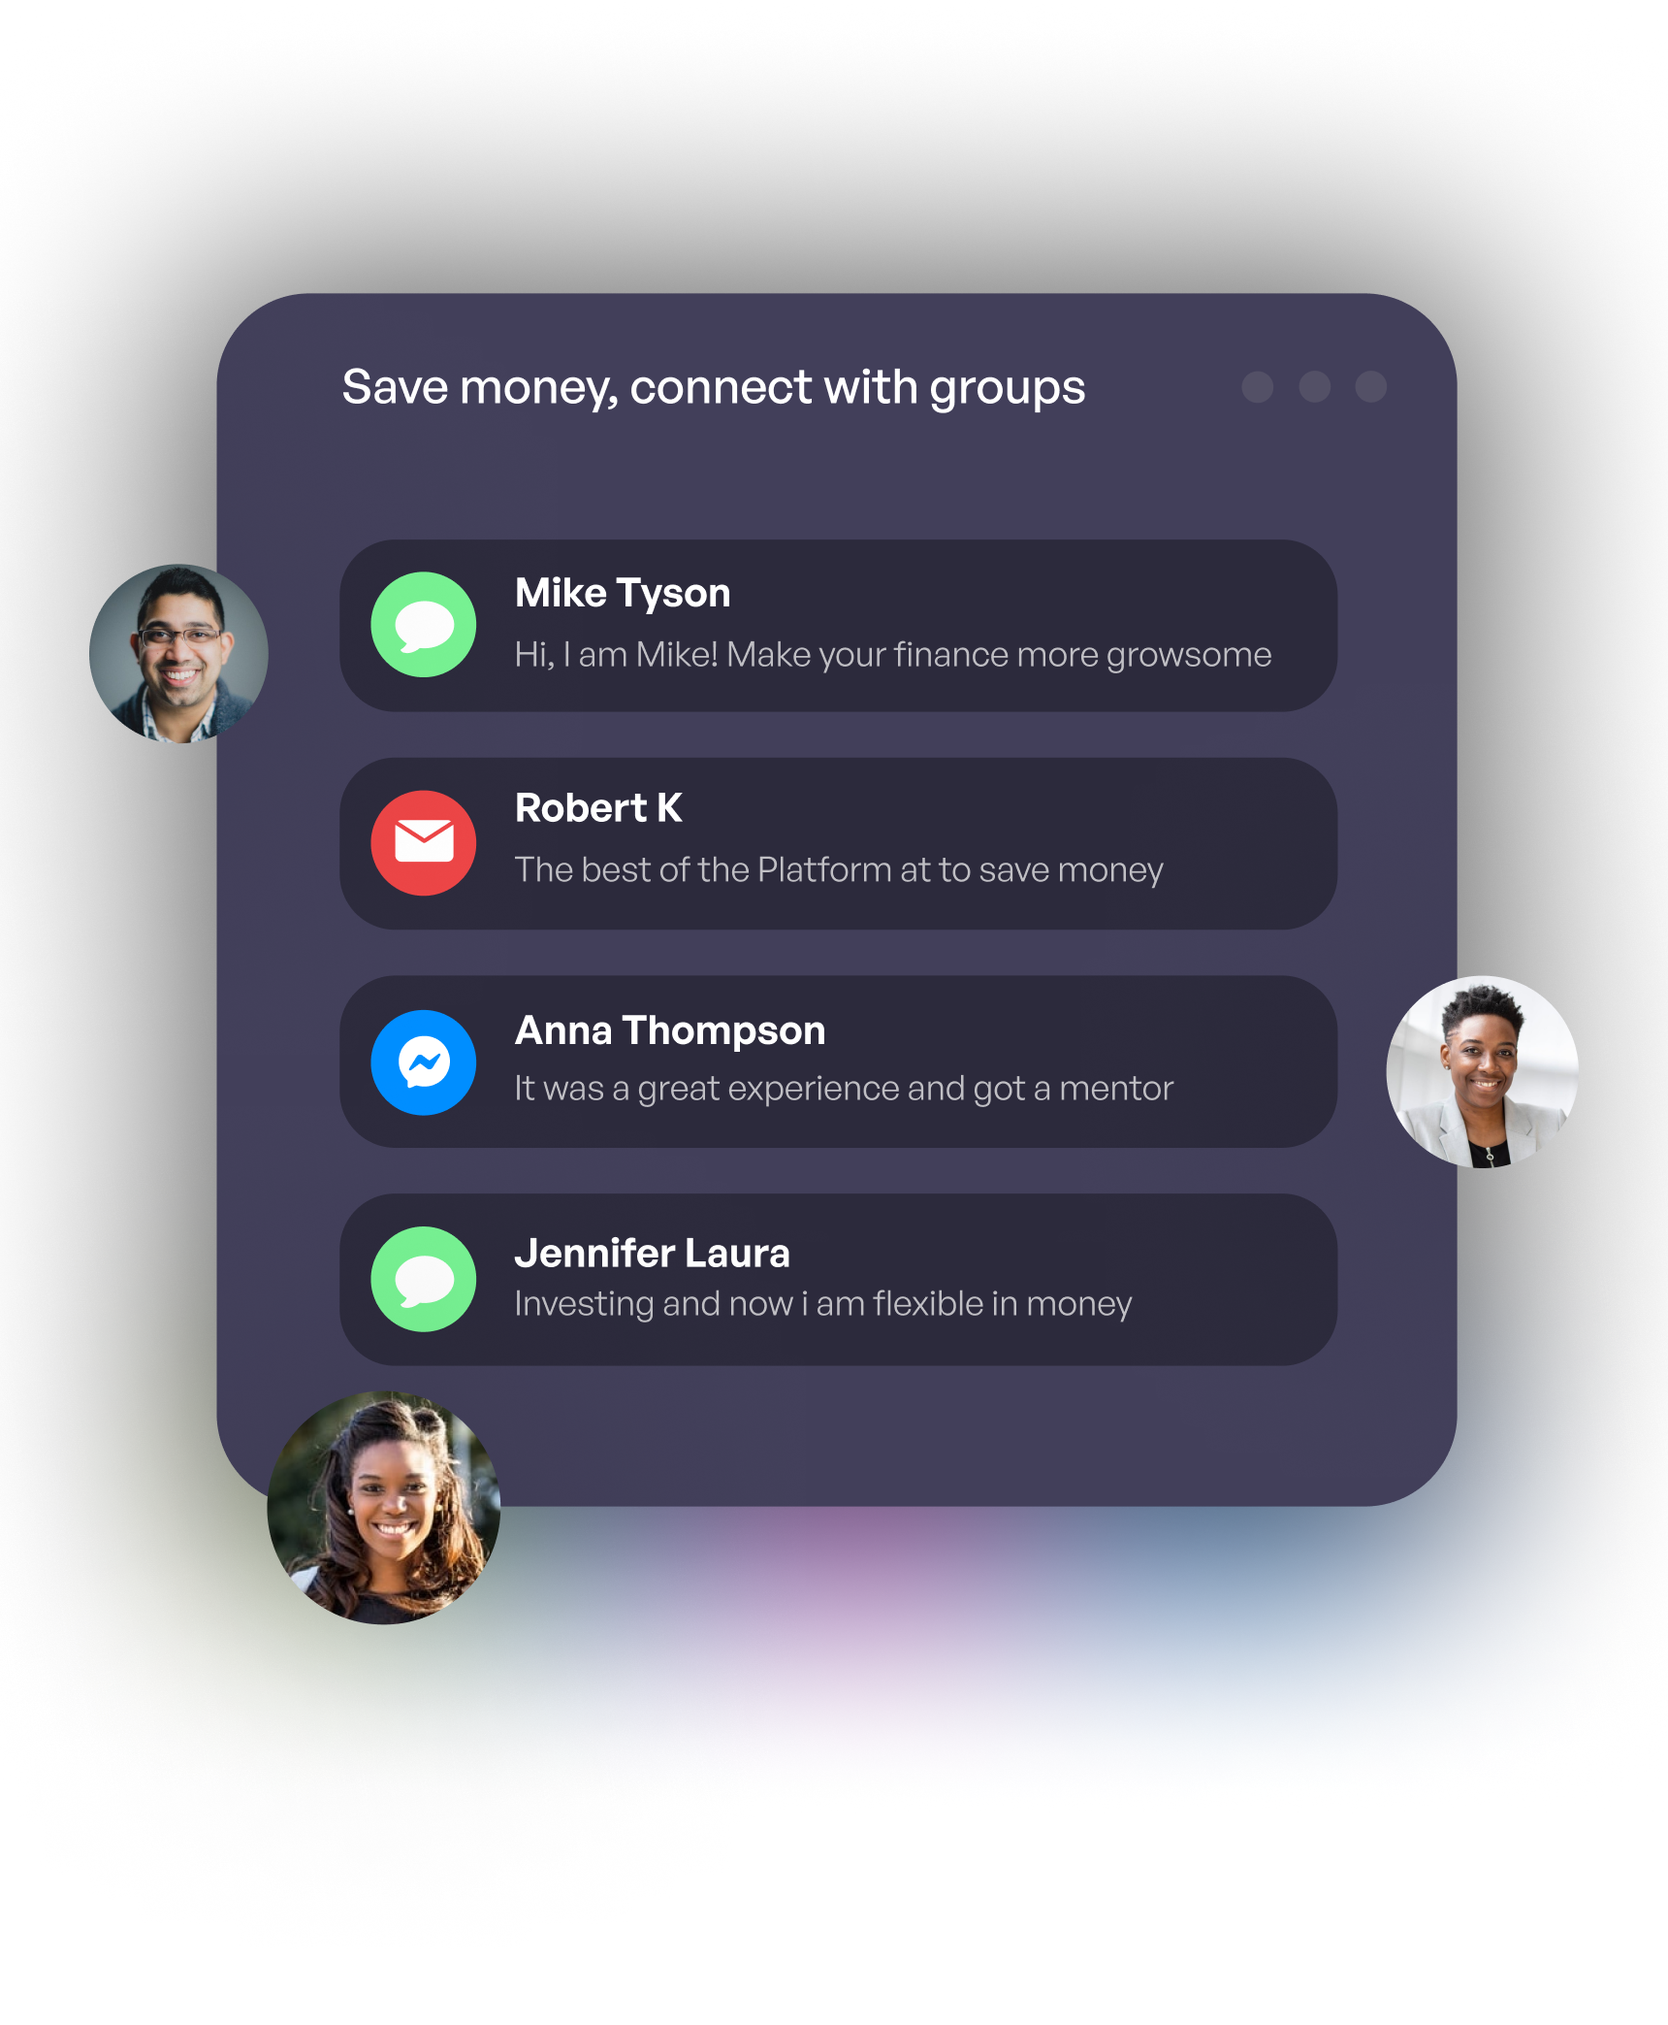
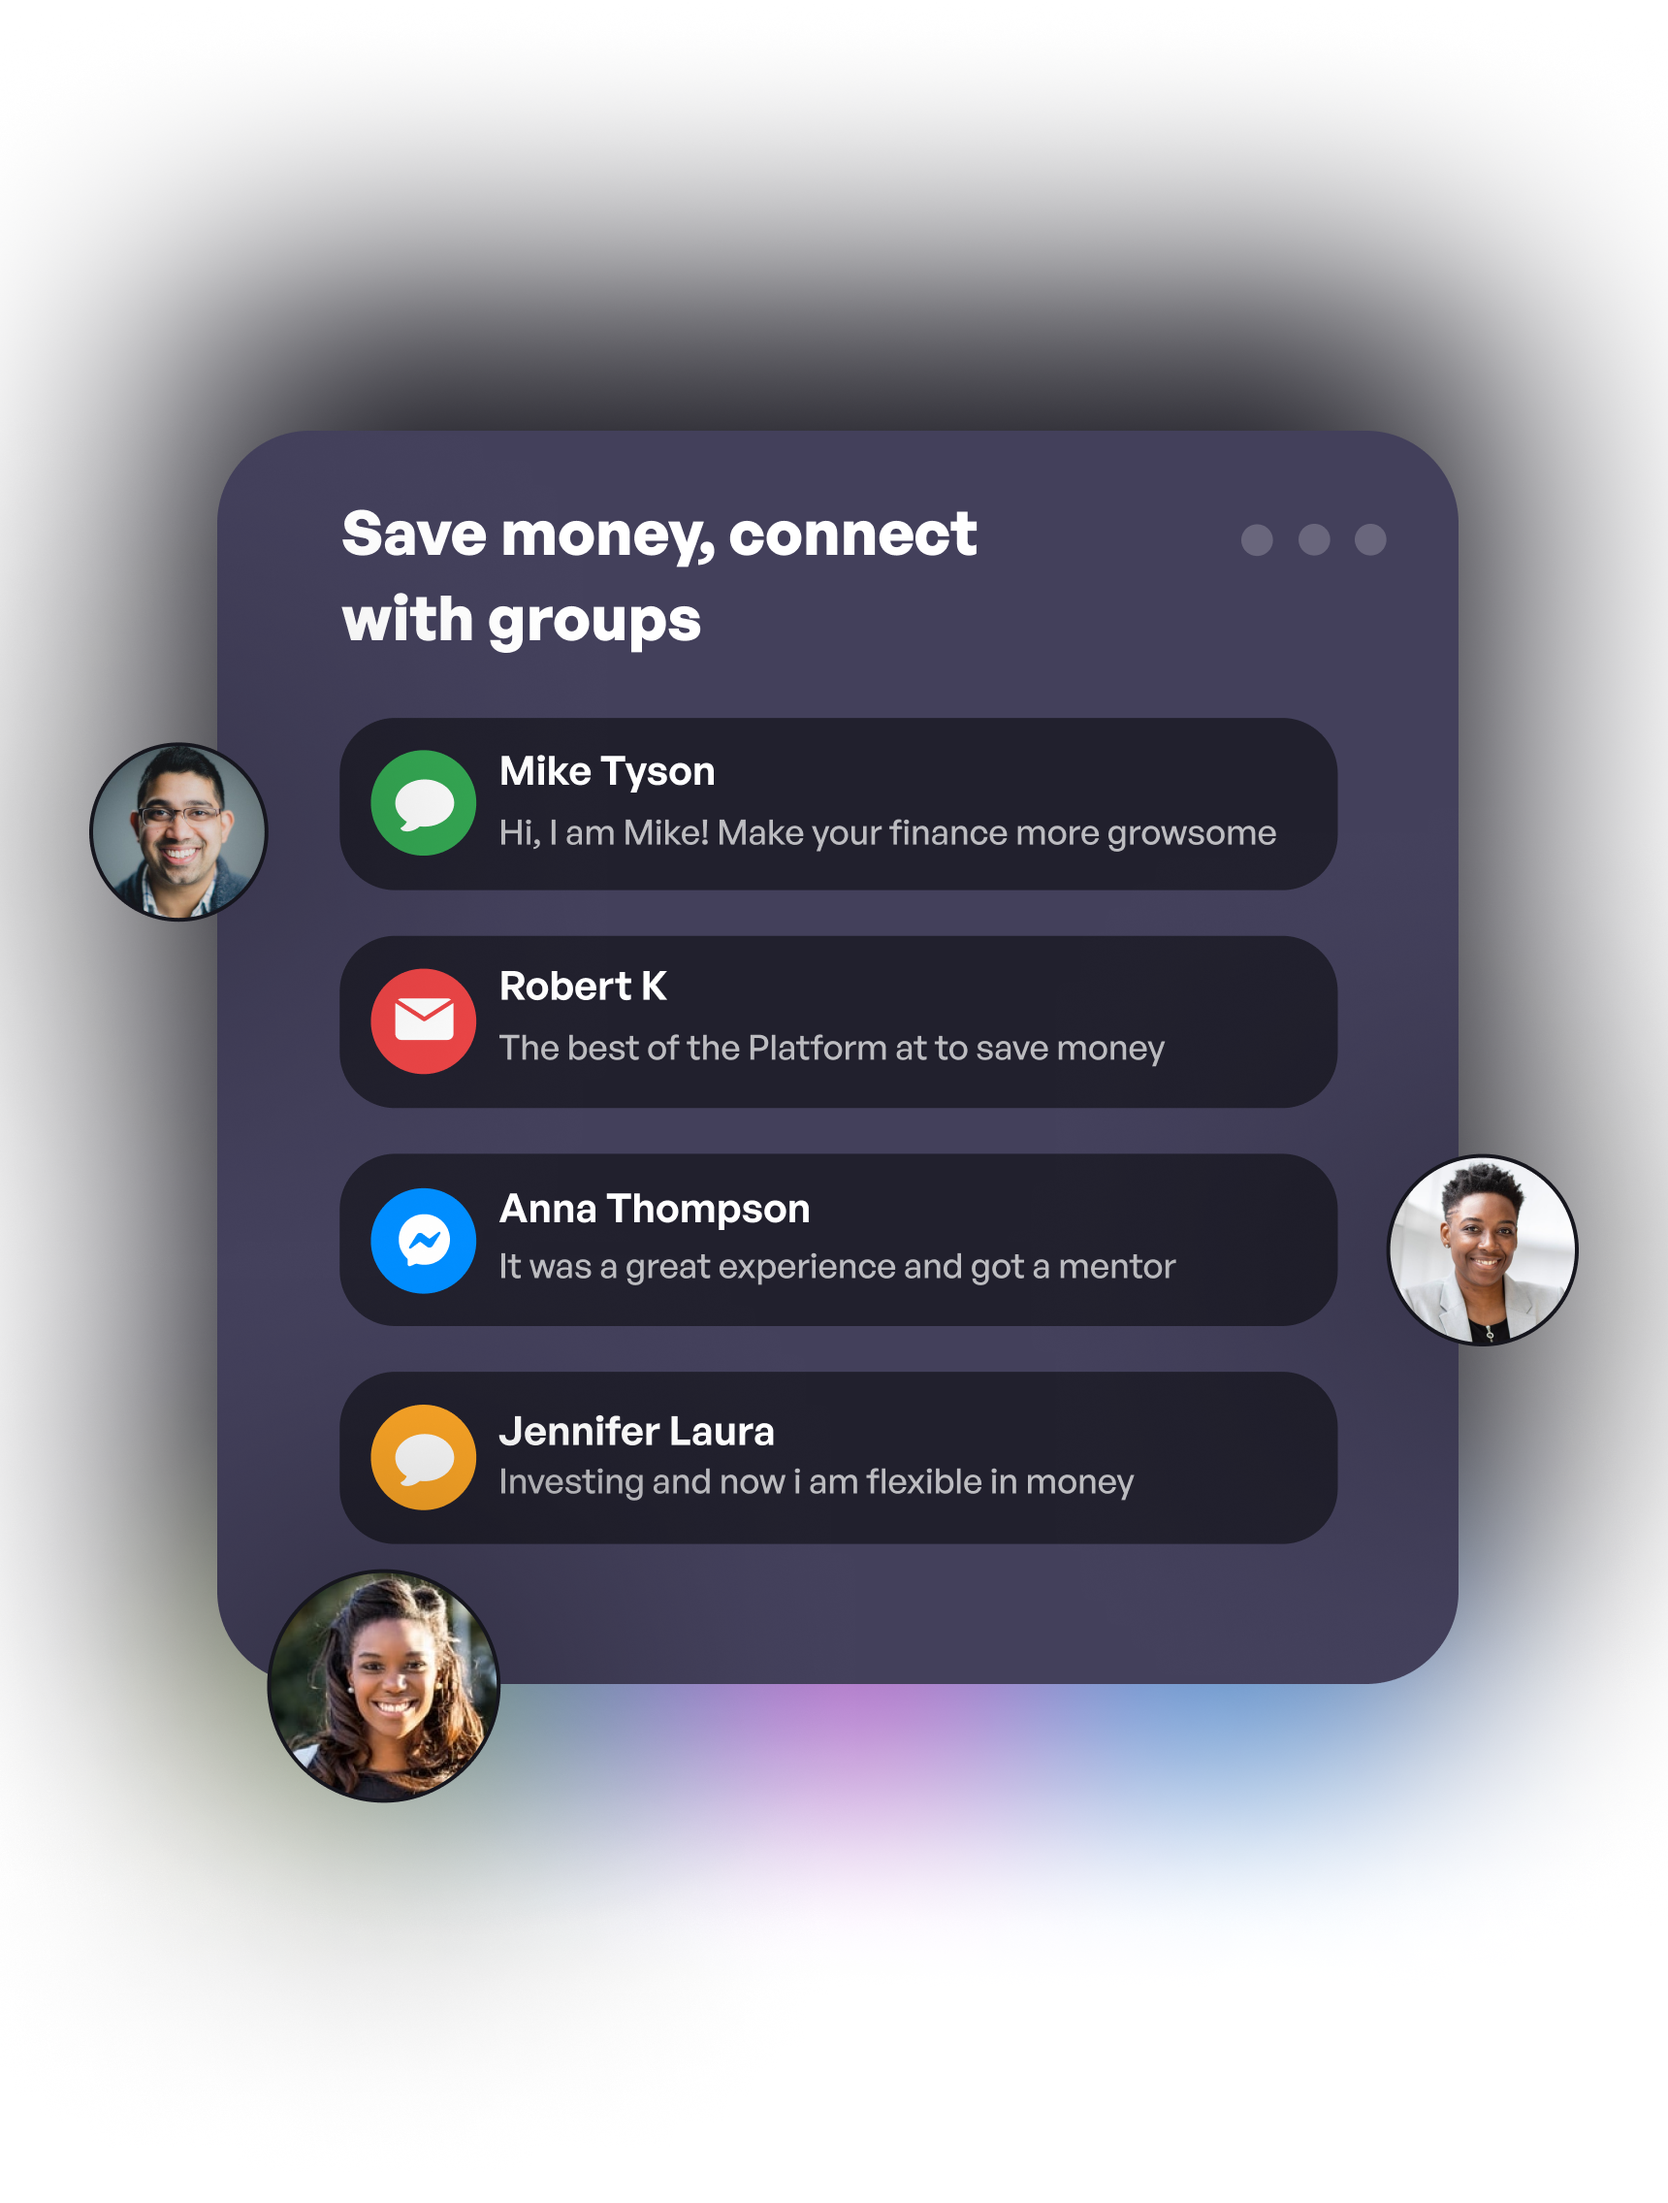
onboarding screens UI update

diff --git a/src/screens/auth/OnBoardingScreen/Second.jsx b/src/screens/auth/OnBoardingScreen/Second.jsx
@@ -3,25 +3,31 @@ import React from 'react';
 import Headings from '../components/Headings';
 import getSize from '../../../utils/helpers';
 import Colors from '../../../styles/Colors.jsx';
+import getRFSize from '../../../utils/Helper';
 
 const Second = () => {
   return (
     <View>
       <Headings
         h1={'Mentors, Advisors, and Investors: Guiding You on Your Journey'}
-        fontSizeh1={22}
+        fontSizeh1={getRFSize(24)}
         h2={
           'Discover the power of financial community. Join \nB.UP, connect, learn, and rise through the ranks'
         }
         extraStyles={styles.extraStyles}
-        extraStylesh1={[styles.extraStylesh1h2, {lineHeight: getSize(31.6)}]}
-        extraStylesh2={styles.extraStylesh1h2}
+        extraStylesh1={[
+          styles.extraStylesh1h2,
+          {lineHeight: getRFSize(31.2), letterSpacing: -0.5},
+        ]}
+        extraStylesh2={[
+          styles.extraStylesh1h2,
+          {marginHorizontal: getRFSize(16)},
+        ]}
       />
 
       <Image
         source={require('../../../../assets/images/onboard2.png')}
         style={styles.image}
-        resizeMode="contain"
       />
     </View>
   );
@@ -55,8 +61,8 @@ const styles = StyleSheet.create({
   card: {alignItems: 'center', justifyContent: 'center'},
   image: {
     width: '100%',
-    height: getSize(500),
-    resizeMode: 'contain',
+    height: getRFSize(568),
+    resizeMode: 'cover',
     borderRadius: getSize(20),
   },
 });

diff --git a/src/screens/auth/OnBoardingScreen/First.jsx b/src/screens/auth/OnBoardingScreen/First.jsx
@@ -1,21 +1,28 @@
 import {Image, StyleSheet, View} from 'react-native';
 import React from 'react';
-import getSize from '../../../utils/helpers';
 import Headings from '../components/Headings';
 import Colors from '../../../styles/Colors.jsx';
+import getRFSize from '../../../utils/Helper';
+import getSize from '../../../utils/helpers';
 
 const First = () => {
   return (
     <View>
       <Headings
         h1={'Save money by sharing, connecting \n& groups information.'}
-        fontSizeh1={22}
+        fontSizeh1={getRFSize(24)}
         h2={
           'Welcome to B.UP! Start your financial journey and connect with mentors to achieve your goals.'
         }
         extraStyles={styles.extraStyles}
-        extraStylesh1={[styles.extraStylesh1h2, {lineHeight: getSize(31.6)}]}
-        extraStylesh2={styles.extraStylesh1h2}
+        extraStylesh1={[
+          styles.extraStylesh1h2,
+          {lineHeight: getRFSize(31.2), letterSpacing: -1},
+        ]}
+        extraStylesh2={[
+          styles.extraStylesh1h2,
+          {marginHorizontal: getRFSize(16)},
+        ]}
       />
       <Image
         source={require('../../../../assets/images/onboard1.png')}
@@ -32,9 +39,9 @@ const styles = StyleSheet.create({
     marginHorizontal: 16,
   },
   image: {
-    height: getSize(500),
+    height: getRFSize(500),
     width: '100%',
-    resizeMode: 'contain',
+    resizeMode: 'cover',
     borderRadius: getSize(20),
   },
   extraStylesh1h2: {

diff --git a/src/screens/auth/OnBoardingScreen/Third.jsx b/src/screens/auth/OnBoardingScreen/Third.jsx
@@ -2,19 +2,30 @@ import {Image, StyleSheet, View} from 'react-native';
 import React from 'react';
 import Headings from '../components/Headings';
 import getSize from '../../../utils/helpers';
+import getRFSize from '../../../utils/Helper';
 
 const Second = () => {
   return (
     <View>
       <Headings
         h1={'Level Up, Mentor: Stand Out, Make a Difference'}
-        fontSizeh1={26}
+        fontSizeh1={getRFSize(26)}
         h2={
           'Get ready to elevate your finances! B.UP connects you with mentors and rewards your progress with rankings and titles'
         }
         extraStyles={styles.extraStyles}
-        extraStylesh1={[styles.extraStylesh1h2, {lineHeight: getSize(31.6)}]}
-        extraStylesh2={styles.extraStylesh1h2}
+        extraStylesh1={[
+          styles.extraStylesh1h2,
+          {
+            lineHeight: getRFSize(39),
+            letterSpacing: -0.5,
+            marginHorizontal: 32,
+          },
+        ]}
+        extraStylesh2={[
+          styles.extraStylesh1h2,
+          {marginHorizontal: getRFSize(28)},
+        ]}
       />
 
       <Image
@@ -33,12 +44,11 @@ const styles = StyleSheet.create({
   },
   extraStyles: {
     marginTop: getSize(100),
-    marginHorizontal: 32,
   },
   image: {
     width: '100%',
-    height: getSize(490),
-    resizeMode: 'contain',
+    height: getRFSize(480),
+    resizeMode: 'cover',
     // borderRadius: getSize(20),
   },
 });

diff --git a/src/utils/Helper.js b/src/utils/Helper.js
@@ -1,0 +1,14 @@
+import {Dimensions} from 'react-native';
+
+const getRFSize = fontSize => {
+  const windowWidth = Dimensions.get('window').width;
+  const windowHeight = Dimensions.get('window').height;
+  const figmaWidth = 430; // Width of the iPhone 14 Pro Max frame in Figma
+  const figmaHeight = 932; // Height of the iPhone 14 Pro Max frame in Figma
+  const widthFactor = windowWidth / figmaWidth;
+  const heightFactor = windowHeight / figmaHeight;
+  const factor = Math.min(widthFactor, heightFactor);
+  return Math.round(factor * fontSize);
+};
+
+export default getRFSize;

diff --git a/src/screens/auth/components/Headings.jsx b/src/screens/auth/components/Headings.jsx
@@ -4,6 +4,7 @@ import getSize from '../../../utils/helpers';
 import TextBold from '../../../components/Text/TextBold';
 import Colors from '../../../styles/Colors.jsx';
 import TextMedium from '../../../components/Text/TextMedium';
+import getRFSize from '../../../utils/Helper';
 
 const Headings = ({
   h1,
@@ -28,7 +29,7 @@ const Headings = ({
       <TextMedium
         text={h2}
         color={textColorh2}
-        fontSize={fontSizeh2 ? fontSizeh2 : 15}
+        fontSize={fontSizeh2 ? fontSizeh2 : getRFSize(16)}
         extraStyles={[
           extraStylesh2,
           {
